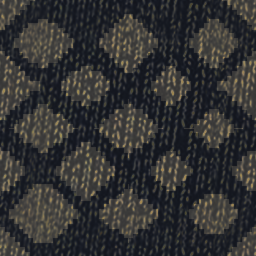
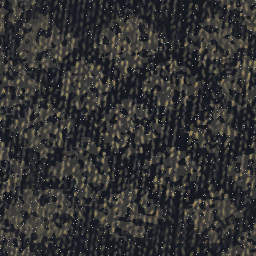
cabin777 econ w8 (from A 7.3 / B 7.4): lacy low-contrast diamond lattice with bright specks, 2 px mosaic dashes at 42 % cover + lighter base, lighter fleck ground, soft bowed cover with a bent fold strip and stitch line, two mesh pouches with pleated hems and a centre strap, card pictogram half, mos
- y_diamond: figures 0.065-0.09 m chaining tip to tip, ~35 % punched out in 3 mm holes, lift (2.2, 2.0, 1.6), 1.2 %
  bright specks (w8 A: light area 0.43-0.48 vs 0.11-0.15 in y_47302 / y_47306)
- y_mosaic: dashes 2 px / ~1.6 mm (1 px blurred out at row distance), dense cells 42 %; yFabricC #56638b (q15 L50 47 vs
  63-80); yFabricD #4a5679 (L50 37 vs 47-53)
- Cover: lofted plate bowed 4 mm, thin bent fold, stitch line (y_47301 / 47306); fleck backs -> mosaic pads (y_47300)
- Pocket: two bowed pouches, pleated hems, grey centre strap; safety card white half + purple header (sans 20-23)
- Armrest: knuckle block removed, raked blade post (y_47303); shell top rows thinner; bezel #24232b r 0.12 (y_47305)

Shared-file edits: 09_seats.js (SEATMAT yFabricC, yFabricD), test/make_swatches.py (y_diamond, y_mosaic),
tex/tex_y_diamond.png, tex/tex_y_mosaic.png.

Claude-Session: https://claude.ai/code/session_01CDNepdnu7dWZvBrRdxsgp9

diff --git a/cabin777/src/09a_econ.js b/cabin777/src/09a_econ.js
@@ -34,7 +34,7 @@ function econSeat(B, x0, lod, opts = {}) {
   // [y, rear-face z, depth, width, corner r]
   const RS = [[-0.12, 0.066, 0.03, 0.44, 0.018], [-0.06, 0.07, 0.03, 0.446, 0.018], [0.1, 0.078, 0.03, 0.446, 0.018], [0.2, 0.08, 0.032, 0.44, 0.018],
     [0.24, 0.081, 0.034, 0.345, 0.016], [0.44, 0.086, 0.04, 0.345, 0.016], [0.49, 0.106, 0.06, 0.39, 0.015], [0.53, 0.12, 0.08, 0.405, 0.015], [0.80, 0.122, 0.09, 0.40, 0.015],
-    [0.835, 0.114, 0.09, 0.40, 0.025], [0.855, 0.10, 0.10, 0.39, 0.03], [0.869, 0.075, 0.06, 0.31, 0.02]];
+    [0.835, 0.114, 0.09, 0.40, 0.025], [0.855, 0.10, 0.092, 0.39, 0.03], [0.869, 0.078, 0.058, 0.31, 0.02]];   // w8 B: thinner cap from the front
   // w6 A + B: flat hood face with tight corners, 0.40 wide -> bezel 0.79 of it (y_47305 0.81, sans 15 / 22 0.86-0.87;
   // the 0.03 radius curled the sides away, 0.89-0.93); the top row caps the back top 7 mm above it, its front face ~1.5 cm
   // behind the fabric front so a ~1 cm navy rim shows from behind (sans 15 / 22, fr57325 124234) [D]
@@ -48,7 +48,8 @@ function econSeat(B, x0, lod, opts = {}) {
   // w6 B: narrower pad (0.355) with an undercut at its foot, so a shadow line and a margin of back fabric outline it
   // (y_47300); w6 A: each cushion in a different weave from its back (y_47306: diamond back / mosaic pad, tick / fleck,
   // mosaic / diamond); fleck backs keep fleck pads (y_47300 seats 2 / 4) [V]
-  const HF = F === SEATMAT.yFabricB ? SEATMAT.yFabricC : F === SEATMAT.yFabricC ? SEATMAT.yFabricB : F === SEATMAT.yFabricD ? F : SEATMAT.yHead;
+  // w8 B: fleck backs carry a light mosaic pad (y_47300 seats 2 / 4)
+  const HF = F === SEATMAT.yFabricB || F === SEATMAT.yFabricD ? SEATMAT.yFabricC : F === SEATMAT.yFabricC ? SEATMAT.yFabricB : SEATMAT.yHead;
   // w7 A + B: a U-shaped pad ~0.39 wide (0.90-0.96 of the back in y_47306 / 47302, sans 13) - a centre panel behind the
   // cover and two round wing bolsters ~2 cm proud of it at both ends; 0.025 lower so the back rises ~5.5 cm above the
   // cover fold (y_47306 0.053-0.073, y_47301 ~0.06; the fold showed above the hood from behind) [D]
@@ -58,12 +59,15 @@ function econSeat(B, x0, lod, opts = {}) {
   // flap hangs past the cushion onto the back, y_47306 right seat) [D]
   // one piece: plate on the cushion front, a fold overlapping both it and the cushion top, a hem tucking back (w3 B)
   // w6 B: 0.255 wide (y_47300 0.23 / y_47306 0.73 of the pad); the hem hangs nearly flat (at -20 deg it read as a shelf)
-  B.add(gRBox(0.255, 0.19, 0.005, 0.006, 1), M4.mul(BH, M4.trs(0, 0.68, -0.0985)), SEATMAT.yCover);
-  B.add(gRBox(0.255, 0.016, 0.046, 0.008, 2), M4.mul(BH, M4.trs(0, 0.774, -0.078)), SEATMAT.yCover);
+  // w8 B: a soft flap, not a tablet - the plate bows ~4 mm forward mid-height, the fold is a thin strip bent over the
+  // pad top, with a stitch line above the hem (y_47301, y_47306)
+  loftAt(B, [SEC(0.585, 0.255, 0.005, -0.0975, 0.002), SEC(0.63, 0.257, 0.005, -0.1005, 0.002), SEC(0.68, 0.258, 0.005, -0.1015, 0.002), SEC(0.73, 0.257, 0.005, -0.1005, 0.002), SEC(0.772, 0.255, 0.005, -0.0975, 0.002)], BH, SEATMAT.yCover, lod ? 1 : 2);
+  loftAt(B, [SEC(0.768, 0.255, 0.008, -0.096, 0.003), SEC(0.778, 0.255, 0.02, -0.088, 0.004), SEC(0.781, 0.255, 0.036, -0.074, 0.004), SEC(0.776, 0.255, 0.02, -0.058, 0.004)], BH, SEATMAT.yCover, lod ? 1 : 2);
   B.add(gRBox(0.25, 0.03, 0.003, 0.002, 1), M4.mul(BH, M4.trs(0, 0.572, -0.0965, 0, -8 * DEG)), SEATMAT.yCover);
   if (lod) return;
   // small ANA mark in the flap's lower corner (viewer's right from the front, y_47306); w5 B: a thin grey logotype, not a sticker
-  B.add(gQuad(0.014, 0.006), M4.mul(BH, M4.trs(-0.105, 0.60, -0.1015, Math.PI)), { c: '#5a6079', r: 0.45 });
+  B.add(gQuad(0.014, 0.006), M4.mul(BH, M4.trs(-0.105, 0.60, -0.1005, Math.PI)), { c: '#5a6079', r: 0.45 });
+  B.add(gQuad(0.24, 0.0012), M4.mul(BH, M4.trs(0, 0.592, -0.1003, Math.PI)), { c: '#30354a', r: 0.5 });   // stitch line
   const on = (y, dz = 0, dx = 0) => M4.mul(BH, M4.trs(dx, y, zr(y) + dz));   // on the rear face
   // navy pillow resting on the cushion at the crease, ~0.35 x 0.24 (y_47300 aspect 0.65-0.7; sans 14 ~0.8 of the pan) [D]
   // w5 B: soft pillow, not a bevelled slab - a squashed sphere with pinched corners, slightly concave sides and a ~7 cm
@@ -89,7 +93,7 @@ function econSeat(B, x0, lod, opts = {}) {
     // below the hood's rounded top (y_47305: 600 x 390 px at 1905 px/m, colour (29,26,38); 55 px of shell above) [D]
     const SY = 0.7275;
     B.add(gRBox(0.322, 0.211, 0.004, 0.007, 1), on(SY, -0.0005), { c: '#9ea2a8', r: 0.5 });      // shadow gap round the glass
-    B.add(gRBox(0.316, 0.205, 0.004, 0.006, 1), on(SY, 0.001), { c: '#1d1a26', r: 0.22 });
+    B.add(gRBox(0.316, 0.205, 0.004, 0.006, 1), on(SY, 0.001), { c: '#24232b', r: 0.12 });   // w8 A: glossy dark-grey glass (y_47305), not flat black
     B.add(gQuad(0.294, 0.166), on(SY, 0.0035), SEATMAT.screen, atlasUV('screen'));
     // IFE handset docked in a dark recess 0.04 below the bezel (y_47305, sanspotter 15/27): dark-navy pill with an oval
     // key, a D-pad ring + OK, +/- rockers, a round key and four colour keys in a diamond (blue top, green left, red
@@ -139,19 +143,24 @@ function econSeat(B, x0, lod, opts = {}) {
     // literature pocket between the hubs: a bulging light-grey flap (~0.27 wide) with piping over a see-through black
     // net, the purple-headed "B777-300" safety card (~0.21 wide) standing above the flap (sanspotter 20 / 21 / 23) [V]
     B.add(gQuad(0.26, 0.01), on(0.147, 0.0135), { c: '#3a3c42', r: 0.7 });                       // pocket mouth
-    B.add(gRBox(0.21, 0.055, 0.003, 0.002, 1), on(0.152, 0.016, 0.035), { c: '#f4f4f6', r: 0.6 });
-    B.add(gQuad(0.21, 0.024), on(0.168, 0.0177, 0.035), { c: '#5b3a8e', r: 0.6 });
-    B.add(gQuad(0.10, 0.008), on(0.168, 0.0179, 0.035), { c: '#ffffff', r: 0.6 });
-    for (let k = 0; k < 4; k++) B.add(gQuad(0.015, 0.012), on(0.15, 0.0176, -0.02 + k * 0.035), { c: '#8a8d94', r: 0.6 });
+    // w8 A + B: the card's white pictogram half shows above the flap under the purple header (sans 20 / 21)
+    B.add(gRBox(0.21, 0.06, 0.003, 0.002, 1), on(0.165, 0.016, 0.035), { c: '#f4f4f6', r: 0.6 });
+    B.add(gQuad(0.21, 0.014), on(0.188, 0.0177, 0.035), { c: '#5b3a8e', r: 0.6 });
+    B.add(gQuad(0.10, 0.005), on(0.188, 0.0179, 0.035), { c: '#ffffff', r: 0.6 });
+    for (let k = 0; k < 5; k++) B.add(gQuad(0.024, 0.017), on(0.168, 0.0176, -0.035 + k * 0.035), { c: '#8a8d94', r: 0.6 });
     B.add(gLoft([SEC(-0.035, 0.26, 0.012, 0, 0.005), SEC(0.0, 0.27, 0.022, 0.004, 0.008), SEC(0.035, 0.26, 0.012, 0, 0.005)], 2), on(0.115, 0.022), { c: '#bdc0c4', r: 0.5, l: LAYER.plastic });
     B.add(gCyl(0.004, 0.004, 0.27, 8), M4.mul(on(0.15, 0.032), M4.trs(0, 0, 0, 0, 0, Math.PI / 2)), { c: '#a9acb1', r: 0.5 });
     // w5 A + B: the net is a see-through black mesh reaching ~0.02 past the flap each side, with a ruched elastic top
     // (sans 23); no alpha here, so a lighter mesh tone lets the grille pattern read as holes [D]
     // w7 A + B: a dark back panel behind a lattice of thin strands, so the net reads as see-through mesh (sans 20 / 23)
-    B.add(gQuad(0.31, 0.07), on(0.05, 0.012), { c: '#1a1b1f', r: 0.9 });
-    for (let i = 0; i < 14; i++) B.add(gBox(0.0025, 0.07, 0.002), on(0.05, 0.017 + 0.003 * Math.sin(i / 13 * Math.PI), -0.15 + i * 0.3 / 13), { c: '#2e3036', r: 0.8 });
-    for (let j = 0; j < 4; j++) B.add(gBox(0.31, 0.0025, 0.002), on(0.022 + j * 0.017, 0.018), { c: '#2e3036', r: 0.8 });
-    B.add(gCyl(0.007, 0.007, 0.31, 8), M4.mul(on(0.084, 0.027), M4.trs(0, 0, 0, 0, 0, Math.PI / 2)), { c: '#303238', r: 0.9, l: LAYER.fabric });
+    // w8 A + B: two bowed mesh pouches either side of a grey centre strap, each with a pleated grey hem (sans 20 / 22 / 23)
+    B.add(gQuad(0.31, 0.07), on(0.05, 0.011), { c: '#1a1b1f', r: 0.9 });
+    for (const px of [-0.08, 0.08]) {
+      for (let i = 0; i < 8; i++) { const u = i / 7; B.add(gBox(0.0025, 0.07, 0.002), on(0.05, 0.016 + 0.008 * Math.sin(u * Math.PI), px - 0.07 + u * 0.14), { c: '#2e3036', r: 0.8 }); }
+      for (let j = 0; j < 4; j++) B.add(gBox(0.14, 0.0025, 0.002), on(0.022 + j * 0.017, 0.021), { c: '#2e3036', r: 0.8 });
+      for (let k = 0; k < 9; k++) B.add(gCyl(0.006, 0.006, 0.0165, 8), M4.mul(on(0.084, 0.026 + 0.002 * (k % 2), px - 0.066 + k * 0.0165), M4.trs(0, 0, 0, 0, 0, Math.PI / 2)), { c: '#7b7e85', r: 0.9, l: LAYER.fabric });
+    }
+    B.add(gBox(0.02, 0.078, 0.004), on(0.047, 0.023), { c: '#8a8d94', r: 0.7 });
   }
   // footrest for the passenger behind: two off-white hanger arms clamped to the rear spreader tube, carrying ribbed
   // aluminium pedals (y_47304)
@@ -197,7 +206,7 @@ function econUnit(n, lod = false, opts = {}) {
     // sculpted off-white armrest (thick, rounded, slightly drooping nose) on a rear pivot post (y_47302 / 47303)
     // w5 B: a slim ~5.5 cm bar (y_47303 28 px on a 0.33 m / 160 px arm; fr57325 124108) with a drooping nose [D]
     loftAt(B, [SEC(0.625, 0.046, 0.32, -0.24, 0.016), SEC(0.64, 0.054, 0.34, -0.24, 0.024), SEC(0.668, 0.052, 0.335, -0.24, 0.024), SEC(0.68, 0.044, 0.32, -0.235, 0.018)], M4.trs(xa, 0, 0), SEATMAT.arm, 3);
-    B.add(gRBox(0.05, 0.045, 0.05, 0.02, 2), M4.trs(xa, 0.64, -0.40, 0, -20 * DEG), SEATMAT.arm);
+    // w8 A: no separate knuckle block on the nose (the loft's rounded end carries it, y_47303)
     // front end: one continuous grey bracket from under the arm nose down past the pan, with a pivot ring at pan height;
     // the white paddle hangs from it (y_47302 / 47303; w2 B: was a ball on a stick) [D]
     loftAt(B, [SEC(0.30, 0.036, 0.032, -0.37, 0.014), SEC(0.46, 0.04, 0.036, -0.385, 0.016), SEC(0.62, 0.04, 0.036, -0.395, 0.016)], M4.trs(xa, 0, 0), SEATMAT.armPost, 2);   // w5 B: slimmer
@@ -206,7 +215,7 @@ function econUnit(n, lod = false, opts = {}) {
       B.add(gCyl(0.009, 0.009, 0.066, 8), M4.trs(xa, 0.46, -0.39, 0, 0, Math.PI / 2), { c: '#3a3e45', r: 0.4 });
     }
     B.add(gRBox(0.05, 0.008, 0.24, 0.004, 1), M4.trs(xa, 0.678, -0.235), SEATMAT.armPad);
-    B.add(gRBox(0.036, 0.23, 0.06, 0.014, 1), M4.trs(xa, 0.51, -0.09), SEATMAT.arm);
+    loftAt(B, [SEC(0.40, 0.03, 0.062, -0.07, 0.012), SEC(0.52, 0.032, 0.056, -0.085, 0.012), SEC(0.63, 0.034, 0.05, -0.10, 0.012)], M4.trs(xa, 0, 0), SEATMAT.arm, 2);   // w8 A: slim raked blade post
     // off-white fairing hanging under the arm nose down to ~0.14 m above the floor (the white "paddles" in y_47302:
     // 0.54 -> 0.14 m at 422 px/m) [D]
     B.add(gRBox(0.03, 0.32, 0.14, 0.012, 2), M4.trs(xa, 0.30, -0.35, 0, -6 * DEG), SEATMAT.arm);
@@ -248,7 +257,7 @@ function econUnitFar(n, rot = 0) {
     B.add(gRBox(0.42, 0.86, 0.08, 0.035, 1), M4.mul(BH, M4.trs(0, 0.43, -0.005)), f);   // same mix as econUnit
     B.add(gRBox(0.446, 0.62, 0.045, 0.015, 1), M4.mul(BH, M4.trs(0, 0.25, 0.058)), SEATMAT.yShell);
     B.add(gRBox(0.40, 0.40, 0.12, 0.015, 1), M4.mul(BH, M4.trs(0, 0.68, 0.062)), SEATMAT.yShell);    // screen hood, capping the back top (w5; w6 0.40, tight corners)
-    B.add(gRBox(0.39, 0.2, 0.11, 0.04, 1), M4.mul(BH, M4.trs(0, 0.675, -0.058)), f === SEATMAT.yFabricB ? SEATMAT.yFabricC : f === SEATMAT.yFabricC ? SEATMAT.yFabricB : f === SEATMAT.yFabricD ? f : SEATMAT.yHead);
+    B.add(gRBox(0.39, 0.2, 0.11, 0.04, 1), M4.mul(BH, M4.trs(0, 0.675, -0.058)), f === SEATMAT.yFabricB || f === SEATMAT.yFabricD ? SEATMAT.yFabricC : f === SEATMAT.yFabricC ? SEATMAT.yFabricB : SEATMAT.yHead);
     B.add(gBox(0.255, 0.225, 0.01), M4.mul(BH, M4.trs(0, 0.6625, -0.11)), SEATMAT.yCover);
     B.add(gQuad(0.316, 0.205), M4.mul(BH, M4.trs(0, 0.7275, 0.1245)), SEATMAT.bezel);
     B.add(gQuad(0.294, 0.166), M4.mul(BH, M4.trs(0, 0.7275, 0.1265)), SEATMAT.screen, atlasUV('screen'));

diff --git a/cabin777/src/09_seats.js b/cabin777/src/09_seats.js
@@ -16,8 +16,8 @@ const SEATMAT = {
   // vs y_47300 backs 46-92); mosaic (L50 59) is the anchor, target tick ~70, diamond ~80, fleck ~55 [D]
   yFabric: { c: photoBase('#5a6587', 'y_tick'), r: 0.9, l: LAYER.yJacq },   // w7 A: q15 L50 55 G/B 0.55 vs y_47300 68-91 / 0.62-0.66
   yFabricB: { c: photoBase('#565e82', 'y_diamond'), r: 0.9, l: LAYER.yDiamond },
-  yFabricC: { c: photoBase('#4a5576', 'y_mosaic'), r: 0.9, l: LAYER.yMosaicP },   // third variant: dash mosaic (y_47302 left, y_47306 right); w6 A: photo-measured dash checker tile, was blobby procedural layer 11; w7 A: q15 #1e2a62 L 41 vs y_47306 #384877 L 60 -> greyer, lighter
-  yFabricD: { c: photoBase('#424d70', 'y_fleck'), r: 0.9, l: LAYER.yFleck },   // econ w5: petal fleck (y_47300 seats 2 / 4, sans 14 L50 48); w6 A: G/B 0.45 vs 0.54 -> greener
+  yFabricC: { c: photoBase('#56638b', 'y_mosaic'), r: 0.9, l: LAYER.yMosaicP },   // third variant: dash mosaic (y_47302 left, y_47306 right); w6 A: photo-measured dash checker tile, was blobby procedural layer 11; w7 A: q15 #1e2a62 L 41 vs y_47306 #384877 L 60 -> greyer, lighter; w8 B: q15 L50 47 vs 63-80 -> lighter
+  yFabricD: { c: photoBase('#4a5679', 'y_fleck'), r: 0.9, l: LAYER.yFleck },   // econ w5: petal fleck (y_47300 seats 2 / 4, sans 14 L50 48); w6 A: G/B 0.45 vs 0.54 -> greener; w8 A + B: L50 37 vs 47-53 -> lighter
   // headrest cushion: sparse white confetti on cobalt, a different fabric from the back (y_47306 / 47302 wings,
   // REFERENCE777.md) - shares the luminance-only confetti swatch with the PY wings
   // (same tone-curve match: wing photo mean #334276 in y_47306 -> base #4a5a98 averages #324384) [D]

diff --git a/cabin777/test/make_swatches.py b/cabin777/test/make_swatches.py
@@ -226,7 +226,7 @@ def y_diamond():
     sites = [((a + o) / 3, (b + o) / 3) for o in (0, 0.5) for a in range(3) for b in range(3)]
     sites = [c for c in sites if rng.random() > 0.25]
     for cu, cv in sites:
-        hd = rng.uniform(0.03, 0.046)           # minus one 5 mm ceil step -> 0.05-0.08 m figures, tips ~touching
+        hd = rng.uniform(0.038, 0.05)           # minus one 5 mm ceil step -> 0.065-0.09 m figures, tips chaining (w8 A + B)
         for ou in (-1, 0, 1):
             for ov in (-1, 0, 1):
                 # econ w6 (A + B): ceil, not floor - floor grew every diamond by one step (light area 0.54 vs Otsu 0.07-0.24)
@@ -238,11 +238,15 @@ def y_diamond():
     m = (m > 0.5).astype(np.float32)
     m = np.asarray(Image.fromarray((m * 255).astype(np.uint8)).filter(ImageFilter.GaussianBlur(0.4))).astype(np.float32)[..., None] / 255
     m = m * (0.8 + 0.2 * _blur_wrap(rng.random((n, n)), 1.0)[..., None] / 0.5).clip(0.7, 1.0)   # w7 A: mottled ~3 mm fill
+    # w8 A: lacy, broken ikat - ~35 % of each figure punched out in ~3 mm holes, so the light area drops to ~0.15-0.2
+    hole = _blur_wrap(rng.random((n, n)), 2.0); m = m * (hole > np.percentile(hole, 35))[..., None]
     # econ w6 B: quieter tick ground (x0.4) so the ticks don't join the figure; brighter blocks keep hi/lo ~1.9 (y_47306 / 47302)
     tm = t.reshape(-1, 3).mean(0)
-    lift = np.array([2.5, 2.2, 1.7], np.float32)          # pale lavender-grey blocks (y_47302 / y_47306)
+    lift = np.array([2.2, 2.0, 1.6], np.float32)          # pale lavender-grey blocks (y_47302 / y_47306); w8 A: lower contrast
     inside = lift * (0.7 + 0.3 * t / tm)
     ratio = (tm + 0.4 * (t - tm)) * (1 - m) + inside * m
+    sp = (rng.random((n, n)) < 0.012)[..., None]           # w8 A: sparse bright specks over the whole cloth
+    ratio = np.where(sp, np.array([4.5, 4.3, 3.6], np.float32), ratio)
     ratio /= ratio.reshape(-1, 3).mean(0)
     out = np.clip(ratio / ENC['y_diamond'], 0, 1)
     Image.fromarray((out * 255 + 0.5).astype(np.uint8)).save(os.path.join(root, 'tex', 'tex_y_diamond.png'))
@@ -299,8 +303,8 @@ def y_mosaic():
     # w7 B: a rectangular grid of cells ~25 x 18 mm (8 x 11 per 0.2 m tile)
     NI, NJ = 8, 11
     cw, ch = n / NI, n / NJ
-    dens = np.array([[0.30 if (i + j) % 2 else 0.07 for i in range(NI)] for j in range(NJ)]) * rng.uniform(0.8, 1.2, (NJ, NI))
-    pitch = 1.6 * mm                                   # dash rows ~1.6 mm apart (y_47306 right seat)
+    dens = np.array([[0.42 if (i + j) % 2 else 0.06 for i in range(NI)] for j in range(NJ)]) * rng.uniform(0.8, 1.2, (NJ, NI))
+    pitch = 2.6 * mm                                   # dash rows ~2.6 mm apart (y_47306 right seat)
     for r in range(int(n / pitch)):
         yc = (r + 0.5) * pitch
         x = rng.random() * 4 * mm
@@ -308,13 +312,13 @@ def y_mosaic():
             L = rng.uniform(6, 12) * mm
             cx = (x + L / 2) % n
             j = int(yc / ch) % NJ; i = int(cx / cw) % NI
-            if rng.random() < dens[j, i] / 0.30 * 0.55:
-                y0 = int(yc); y1 = y0 + 1                   # ~1 mm dash (1 px on the 0.2 m tile)
+            if rng.random() < dens[j, i] / 0.42 * 0.75:
+                y0 = int(yc); y1 = y0 + 2                   # w8 A + B: ~1.6 mm dash (2 px) so it survives minification
                 xs = np.arange(int(x), int(x + L)) % n
                 m[max(y0, 0):min(y1, n), xs] = 1
             x += L + rng.uniform(1.5, 4) * mm
     m = m[..., None]                                   # w7 A: crisp, no blur
-    lift = np.array([7.0, 7.0, 5.0], np.float32)          # near-white dashes (y_47306 right seat)
+    lift = np.array([7.0, 7.0, 6.0], np.float32)          # near-white dashes (y_47306 right seat); w8 A: desaturated
     ratio = ground * (1 - m) + lift * m
     ratio /= ratio.reshape(-1, 3).mean(0)
     out = np.clip(ratio / ENC['y_mosaic'], 0, 1)
